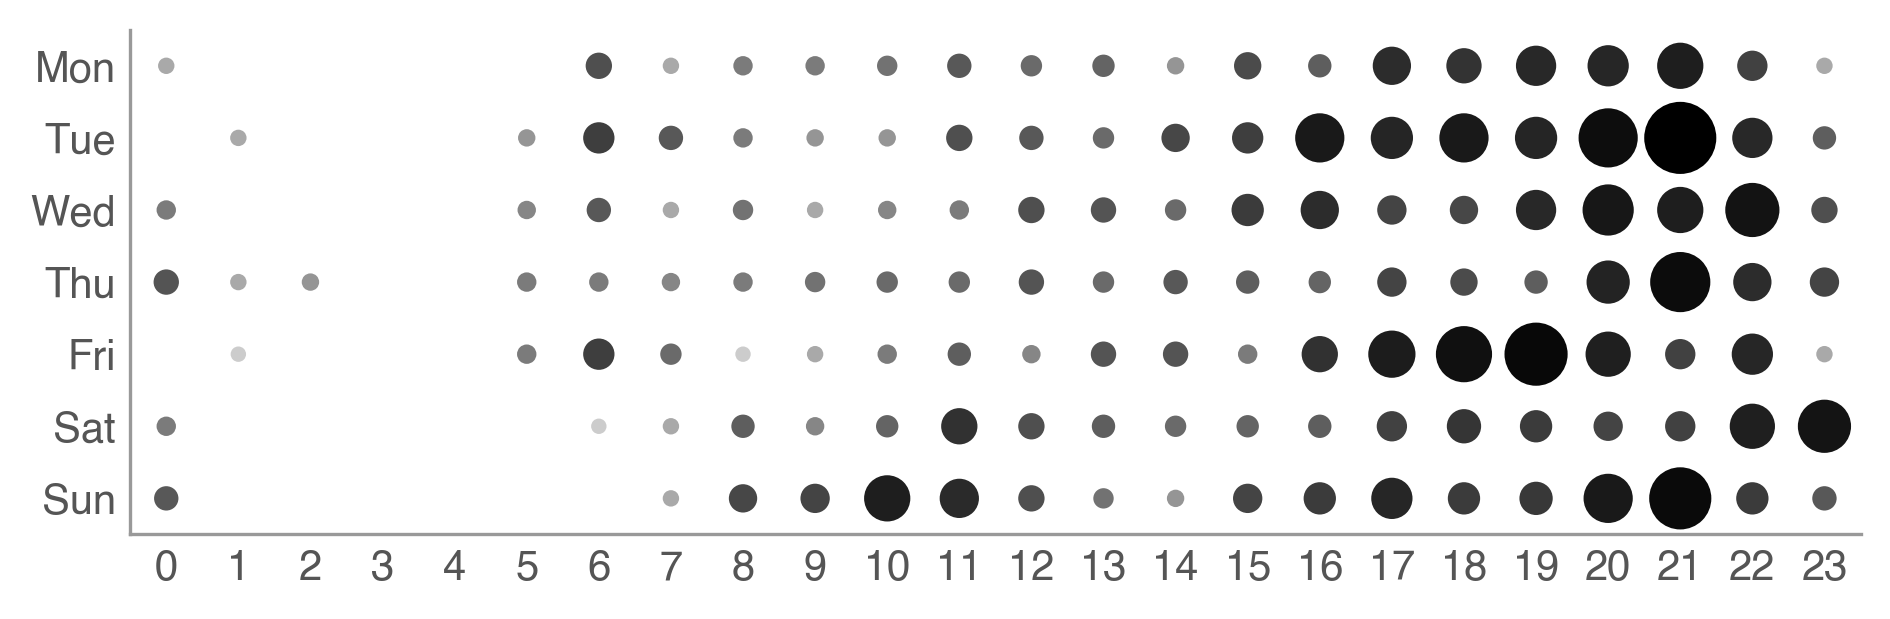
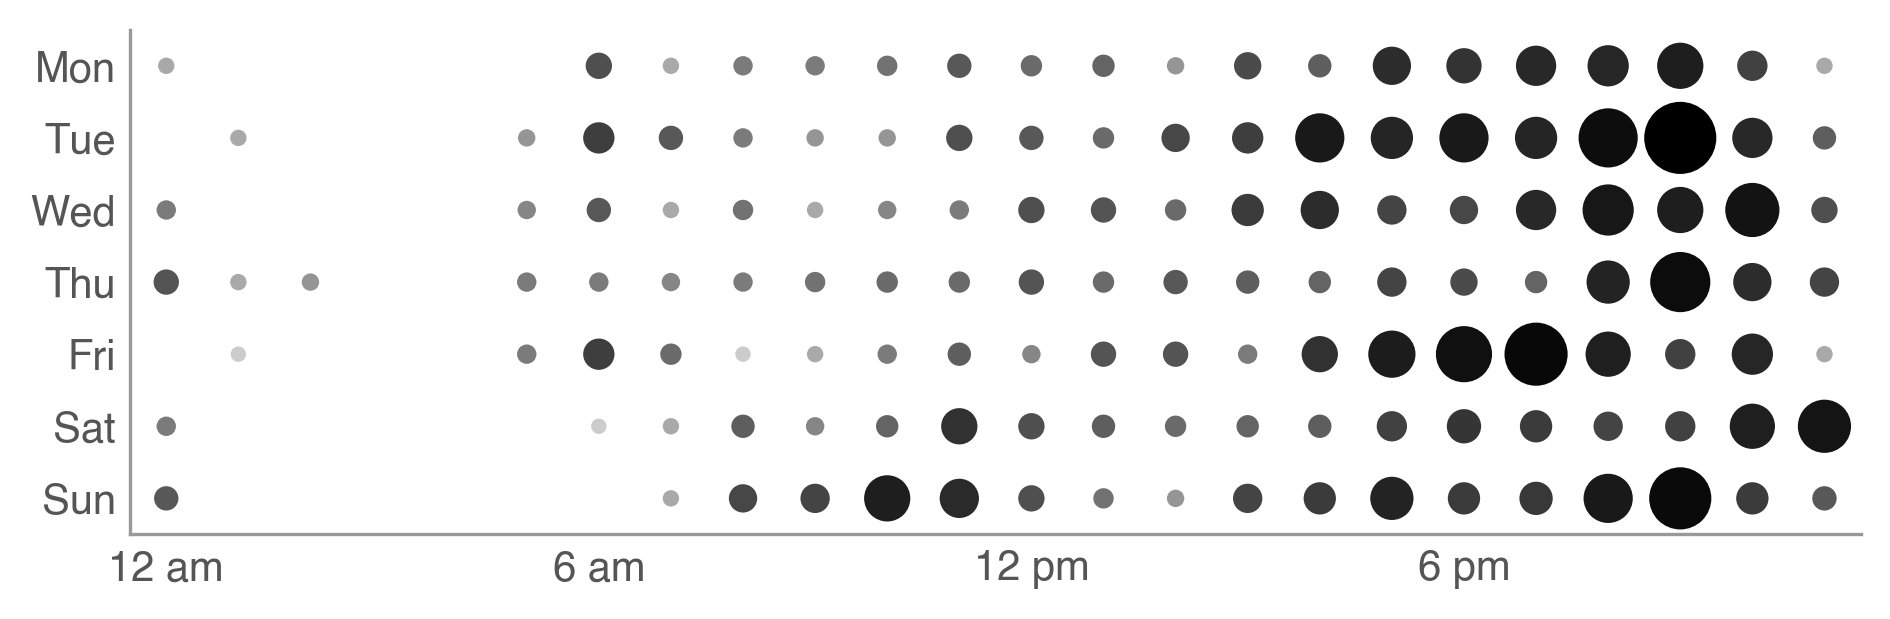
punchcard: Use 12-hour clock on x-axis

Changed region(s): [[0.4683, 0.8901, 0.9989, 0.9515], [0.1561, 0.8901, 0.437, 0.9515], [0.0624, 0.8901, 0.1249, 0.9515]]

diff --git a/punchcard.py b/punchcard.py
@@ -66,12 +66,24 @@ def patches_for(api, id):
         )
 
 
+def get_hour_ticklabels():
+    hours = [12, *range(1, 12)]
+
+    for meridiem in ("am", "pm"):
+        for i, hour in enumerate(hours):
+            if i % 6 == 0:
+                yield "{} {}".format(hour, meridiem)
+            else:
+                yield None
+
+
 def plot_punchcard(api, id, fig, ax):
     # Set axes ticks and labels
     ax.set_xticks(range(HOURS_MAX))
     ax.set_yticks(range(DAYS_MAX))
     ax.set_xlim(-0.5, HOURS_MAX - 0.5)
     ax.set_ylim(DAYS_MAX - 0.5, -0.5)
+    ax.set_xticklabels(get_hour_ticklabels())
     ax.set_yticklabels(calendar.day_abbr)
 
     # Enable equal spacing for both axes
